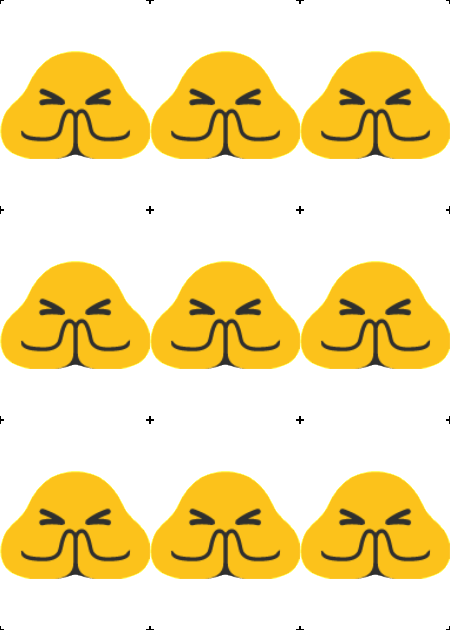
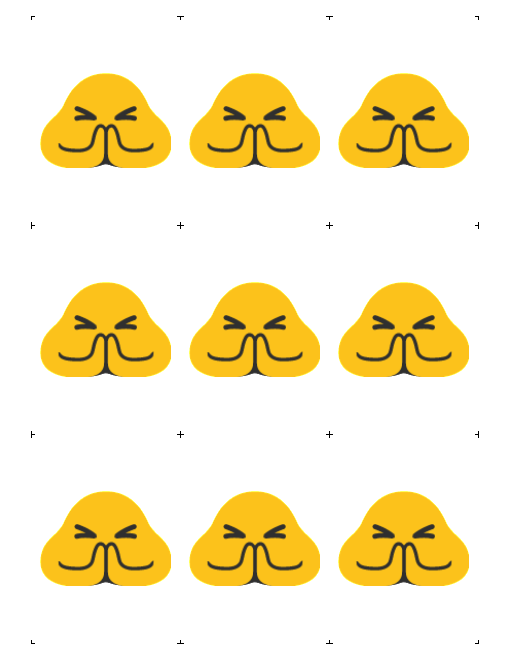
Updated with more parameters

diff --git a/ImageReality/Program.cs b/ImageReality/Program.cs
@@ -13,9 +13,9 @@ namespace ImageReality
 		{
 			Console.OutputEncoding = System.Text.Encoding.UTF8;
 
-			args = Sample ();
+			//args = Sample ();
 
-			if (args.Length != 5) {
+			if (args.Length != 11) {
 				Console.WriteLine ("{\"error\": \"Invalid Number of Parameters: must provide CardWidth, CardHeight, DPI, GuideLineSize (0 for none), array of encoded images [base64, base64, base64]\"}");
 				return;
 			}
@@ -25,8 +25,14 @@ namespace ImageReality
 			input.CardHeight = Convert.ToDouble(args [1]);
 			input.DPI = Convert.ToInt32(args [2]);
 			input.GuideLineSize = Convert.ToDouble(args [3]);
+			input.BorderSize = Convert.ToDouble(args [4]);
+			input.PaperWidth = Convert.ToDouble(args [5]);
+			input.PaperHeight = Convert.ToDouble(args [6]);
+			input.SeparatorSpace = Convert.ToDouble(args [7]);
+			input.ContentOffsetX = Convert.ToDouble(args [8]);
+			input.ContentOffsetY = Convert.ToDouble(args [9]);
 
-			string imageArray = args [4];
+			string imageArray = args [10];
 			//Remove [ ]
 			imageArray = imageArray.Substring (1, imageArray.Length - 2);
 			imageArray = imageArray.Replace (" ", "");
@@ -48,13 +54,18 @@ namespace ImageReality
 		}
 
 		public static string[] Sample() {
-			string[] args = new string[5];
+			string[] args = new string[11];
 			args[0] = "" + 2.5;
 			args[1] = "" + 3.5;
 			args[2] = "" + 60;
 			args[3] = "" + 0.05;
-
-
+			args[4] = "" + 0.15;
+			args[5] = "" + 8.5;
+			args[6] = "" + 11;
+			args[7] = "" + -0.01667;
+			args[8] = "" + 0;
+			args[9] = "" + 0;
+		
[3 lines of base64/hex data omitted]
@@ -67,7 +78,7 @@ namespace ImageReality
[1 lines of base64/hex data omitted]
 			string[] images = new [] { image1, image2, image3, image4, image5, image6, image7, image8, image9, image10 };
 			string imgArray = "[" + string.Join (", ", images) + "]";
-			args [4] = imgArray;
+			args [10] = imgArray;
 			return args;
 		}
 	}

diff --git a/ImageReality/Models/Input.cs b/ImageReality/Models/Input.cs
@@ -17,6 +17,24 @@ namespace ImageReality
 		[fsProperty("cardHeight")]
 		public double CardHeight; //Inches
 
+		[fsProperty("paperWidth")]
+		public double PaperWidth; //Inches
+
+		[fsProperty("paperHeight")]
+		public double PaperHeight; //Inches
+
+		[fsProperty("contentOffsetX")]
+		public double ContentOffsetX; //Inches
+
+		[fsProperty("contentOffsetY")]
+		public double ContentOffsetY; //Inches
+
+		[fsProperty("borderSize")]
+		public double BorderSize; //Inches
+
+		[fsProperty("separatorSpace")]
+		public double SeparatorSpace; //Inches
+
 		[fsProperty("dpi")]
 		public double DPI;
 
@@ -26,12 +44,13 @@ namespace ImageReality
 		public List<string> GenerateCardSheets() {
 			int cardPxWidth = (int)(CardWidth * DPI);
 			int cardPxHeight = (int)(CardHeight * DPI);
+			int borderPxSize = (int)(BorderSize * DPI) * 2;
 
 			List<Image> decodedImages = DecodeImages ();
 			for (int i = 0; i < decodedImages.Count; i += 1) {
 				Image image = decodedImages [i];
 				image = image.Trim ();
-				image = image.Resize (cardPxWidth, cardPxHeight);
+				image = image.Resize (cardPxWidth - borderPxSize, cardPxHeight - borderPxSize);
 				image = image.Extent (cardPxWidth, cardPxHeight, Color.White);
 				if (GuideLineSize != 0) {
 					DrawableLine[] lines = GenerateGuideLines ();
@@ -70,6 +89,12 @@ namespace ImageReality
 		}
 
 		List<Image> GenerateMontage(List<Image> decodedImages) {
+			int paperPxWidth = (int)(PaperWidth * DPI);
+			int paperPxHeight = (int)(PaperHeight * DPI);
+			int contentOffsetPxX = (int)(ContentOffsetX * DPI);
+			int contentOffsetPxY = (int)(ContentOffsetY * DPI);
+			int separatorPxSpace = (int)(SeparatorSpace * DPI);
+
 			List<Image> imageSheets = new List<Image> ();
 
 			for (int i = 0; i < decodedImages.Count; i += 9) {
@@ -77,7 +102,7 @@ namespace ImageReality
 				if (numImages > 9)
 					numImages = 9;
 				List<Image> setOf9 = decodedImages.GetRange (i, numImages);
-				Image result = ImageExt.TileImages (setOf9, 3);
+				Image result = ImageExt.TileImages (setOf9, 3, paperPxWidth, paperPxHeight, separatorPxSpace, contentOffsetPxX, contentOffsetPxY);
 				imageSheets.Add (result);
 			}
 			return imageSheets;

diff --git a/ImageReality/ImageExt.cs b/ImageReality/ImageExt.cs
@@ -138,7 +138,7 @@ namespace ImageReality
 		}
 
 		//assumes all images are the same size
-		public static Image TileImages(List<Image> images, int columns) {
+		public static Image TileImages(List<Image> images, int columns, int canvasWidth, int canvasHeight, int separatorSpace, int contentOffsetX, int contentOffsetY) {
 			if (images.Count == 0)
 				return null;
 
@@ -149,19 +149,27 @@ namespace ImageReality
 
 			int imageWidth = images [0].Width;
 			int imageHeight = images [0].Height;
-			int width = columns * imageWidth;
-			int height = rows * imageHeight;
+			int width = columns * imageWidth + (columns - 1) * separatorSpace;
+			int height = rows * imageHeight + (rows - 1) * separatorSpace;
+
+			//To Center the tiles
+			int xOffset = (canvasWidth - width) / 2 + contentOffsetX;
+			int yOffset = (canvasHeight - height) / 2 + contentOffsetY;
 
 			Rectangle[] destRects = new Rectangle[rows * columns];
 			for (int row = 0; row < rows; row += 1) {
+				int separatorY = row * separatorSpace;
 				for (int column = 0; column < columns; column += 1) {
-					destRects[row * columns + column] = new Rectangle(column * imageWidth, row * imageHeight, imageWidth, imageHeight);
+					int separatorX = column * separatorSpace;
+					destRects[row * columns + column] = new Rectangle(column * imageWidth + xOffset + separatorX, row * imageHeight + yOffset + separatorY, imageWidth, imageHeight);
 				}
 			}
 
-			Bitmap tiledImageSheet = new Bitmap(width, height);
+			Bitmap tiledImageSheet = new Bitmap(canvasWidth, canvasHeight);
+			SolidBrush coloredBrush = new SolidBrush(Color.White);
 			using (Graphics graphics = Graphics.FromImage(tiledImageSheet))
 			{
+				graphics.FillRectangle (coloredBrush, tiledImageSheet.Bounds());
 				for (int i = 0; i < images.Count; i += 1) {
 					Image source = images [i];
 					Rectangle dest = destRects [i];

diff --git a/README.md b/README.md
@@ -2,13 +2,19 @@
 Takes a bunch of images and creates card sheets with them. Keeping true to the dpi and card sizes.
 
 #### Usage
-Input must have 5 arguements:
+Input must have 11 arguments:
 
-1. cardWidth (double; inches)
-2. cardHeight (double; inches)
-3. dpi (int)
-4. guideLineSize (double, inches, 0 == no guide lines)
-5. image array with images in base64 `[img1blah+blah=, img2blah+blah=, img3blah+blah=]`
+1.  cardWidth (decimal; inches)
+2.  cardHeight (decimal; inches)
+3.  dpi (whole number)
+4.  guideLineSize (decimal, inches, 0 == no guide lines)
+5.  borderSize (decimal; inches)
+6.  paperWidth (decimal; inches)
+7.  paperHeight (decimal; inches)
+8.  separatorSpace (decimal; inches)
+9.  contentOffsetX (decimal; inches)
+10. contentOffsetY (decimal; inches)
+11. image array with images in base64 `[img1blah+blah=, img2blah+blah=, img3blah+blah=]`
 
 Output is a json with a list of images in base64:
 `
@@ -21,12 +27,13 @@ Output is a json with a list of images in base64:
 `
 
 #### The Process
-We take your images and we:
-- Trim them to remove any padding
-- Scale them to fit cardWidth/cardHeight (using aspectFit ratio)
-- Add padding to fit cardWidth/cardHeight exactly
-- Add Guidelines to the corners of the card
-- Tile the cards into 3x3 sheets
+We take your images and it:
+- Trims them to remove any padding
+- Scales them to fit cardWidth/cardHeight - cardBorder (using aspectFit ratio)
+- Adds padding to fit cardWidth/cardHeight exactly. This creates the border.
+- Adds Guidelines to the corners of the card
+- Tiles the cards into 3x3 sheets (defined by paper width and height)
+  - Here it is also separates the cards using Separator Space
 
 #### Example Result
 Heres an example for these settings:
@@ -35,16 +42,19 @@ Heres an example for these settings:
 2. 3.5
 3. 60
 4. 0.05
-5. 9 images
+5. 0.15
+6. 8.5
+7. 11
+8. -0.01667 (negative separator space causes guidelines to overlap)
+9. 0
+10. 0
+11. 9 images
 
 ![Alt text](example.png?raw=true "example cardsheet")
 
 #### To Do
  - Add Parameters:
-    - Paper Width Height, so we can generate correctly sized sheets
     - Content Center X, Y Offset, content is normally centered but we may want to offset it to account for the printer
-    - Separator Space, to add space inbetween the cards
-    - Card Border Space
  - Use Lanczos for resizing
  - Accept Json Input
  - Make a non-microservice version that's user friendly
